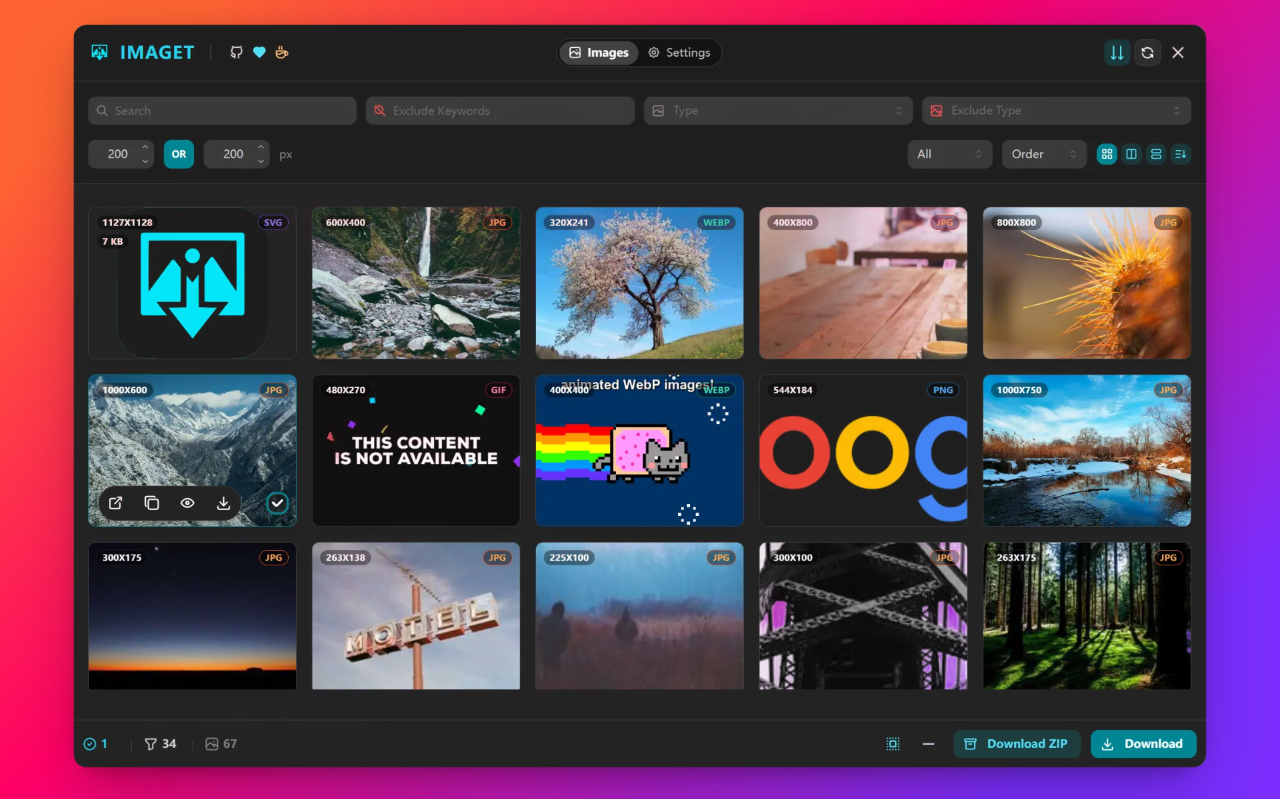
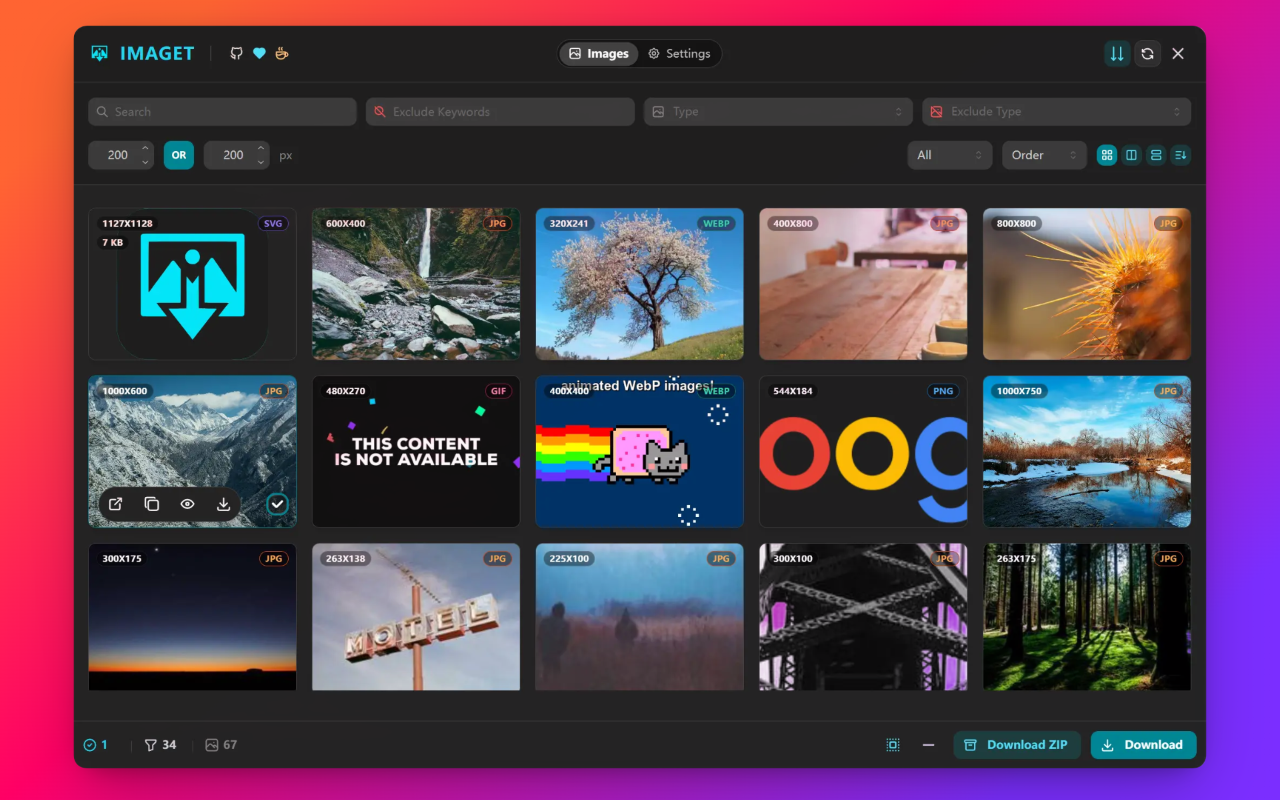
style: 更新最新的商店展示素材与宣传图

diff --git a/marketing/store-assets/REVIEW_JUSTIFICATION.md b/marketing/store-assets/REVIEW_JUSTIFICATION.md
@@ -10,26 +10,29 @@ This document provides detailed justification for the permissions requested by *
 ## Permission Justifications
 
 ### 1. `host_permissions: ["<all_urls>"]` (Broad Host Permission)
-*   **Necessity**: Imaget functions as a general-purpose image discovery tool. Users expect it to be functional on any website where images are displayed.
-*   **Usage**: The permission is used to inject a content script that identifies `<img>` tags, background-images, and CSS-referenced assets. It also allows the extension to bypass cross-origin restrictions when resolving image dimensions or fetching metadata for previewing purposes.
-*   **Constraint**: The extension only acts upon user activation and does not monitor browsing history or transmit data.
+*   **Necessity**: Imaget is a general-purpose image discovery and batch-download tool. Users expect it to function on any website where images are displayed.
+*   **Usage**: Used to inject content scripts to identify <img> tags, background-images, and CSS assets. It also enables the extension to bypass cross-origin (CORS) restrictions when resolving image dimensions or fetching metadata for high-quality previews.
 
 ### 2. `permissions: ["downloads"]`
 *   **Usage**: Required to programmatically trigger the download of multiple image files selected by the user, providing the core "batch download" functionality.
 
 ### 3. `permissions: ["sidePanel"]`
-*   **Usage**: Used to host the extension's UI in the browser's side panel, ensuring a persistent and non-intrusive user experience that doesn't close when the user interacts with the main page content.
+*   **Usage**: Used to host the extension's UI in the browser's side panel, providing a persistent and non-intrusive workspace that doesn't close when interacting with the main page.
 
-### 4. `permissions: ["storage"]`
+### 4. `permissions: ["contextMenus"]`
+*   **Usage**: Used to provide quick-access actions via the right-click menu, allowing users to "Quick Save" a specific image in various formats (WebP/PNG/JPG) or quickly open the Imaget dashboard.
+
+### 5. `permissions: ["storage"]`
 *   **Usage**: Used exclusively to store user-defined preferences (e.g., filter defaults, download path patterns).
 
-### 5. `permissions: ["activeTab"]`
-*   **Usage**: Used to ensure the extension has permission to interact with the currently focused tab upon user invocation.
+### 6. `permissions: ["activeTab"]`
+*   **Usage**: Used to ensure the extension has temporary permission to interact with the currently focused tab upon user invocation.
 
 ---
 
 ## Compliance and Data Safety
 *   **Manifest V3**: This extension fully adheres to Manifest V3 standards.
-*   **No Remote Code**: No external scripts or remote code are fetched or executed. All logic is bundled locally within the extension package.
+*   **No Remote Code**: **IMPORTANT: Select "No" in the developer dashboard.** No external scripts or remote code are fetched or executed. All logic is bundled locally within the extension package.
 *   **No Data Collection**: The extension does not collect, store, or transmit any user data, personal information, or browsing history. All processing occurs locally on the user's machine.
 *   **Open Source**: The project is open-source for transparency: https://github.com/Shirolin/Imaget
+
